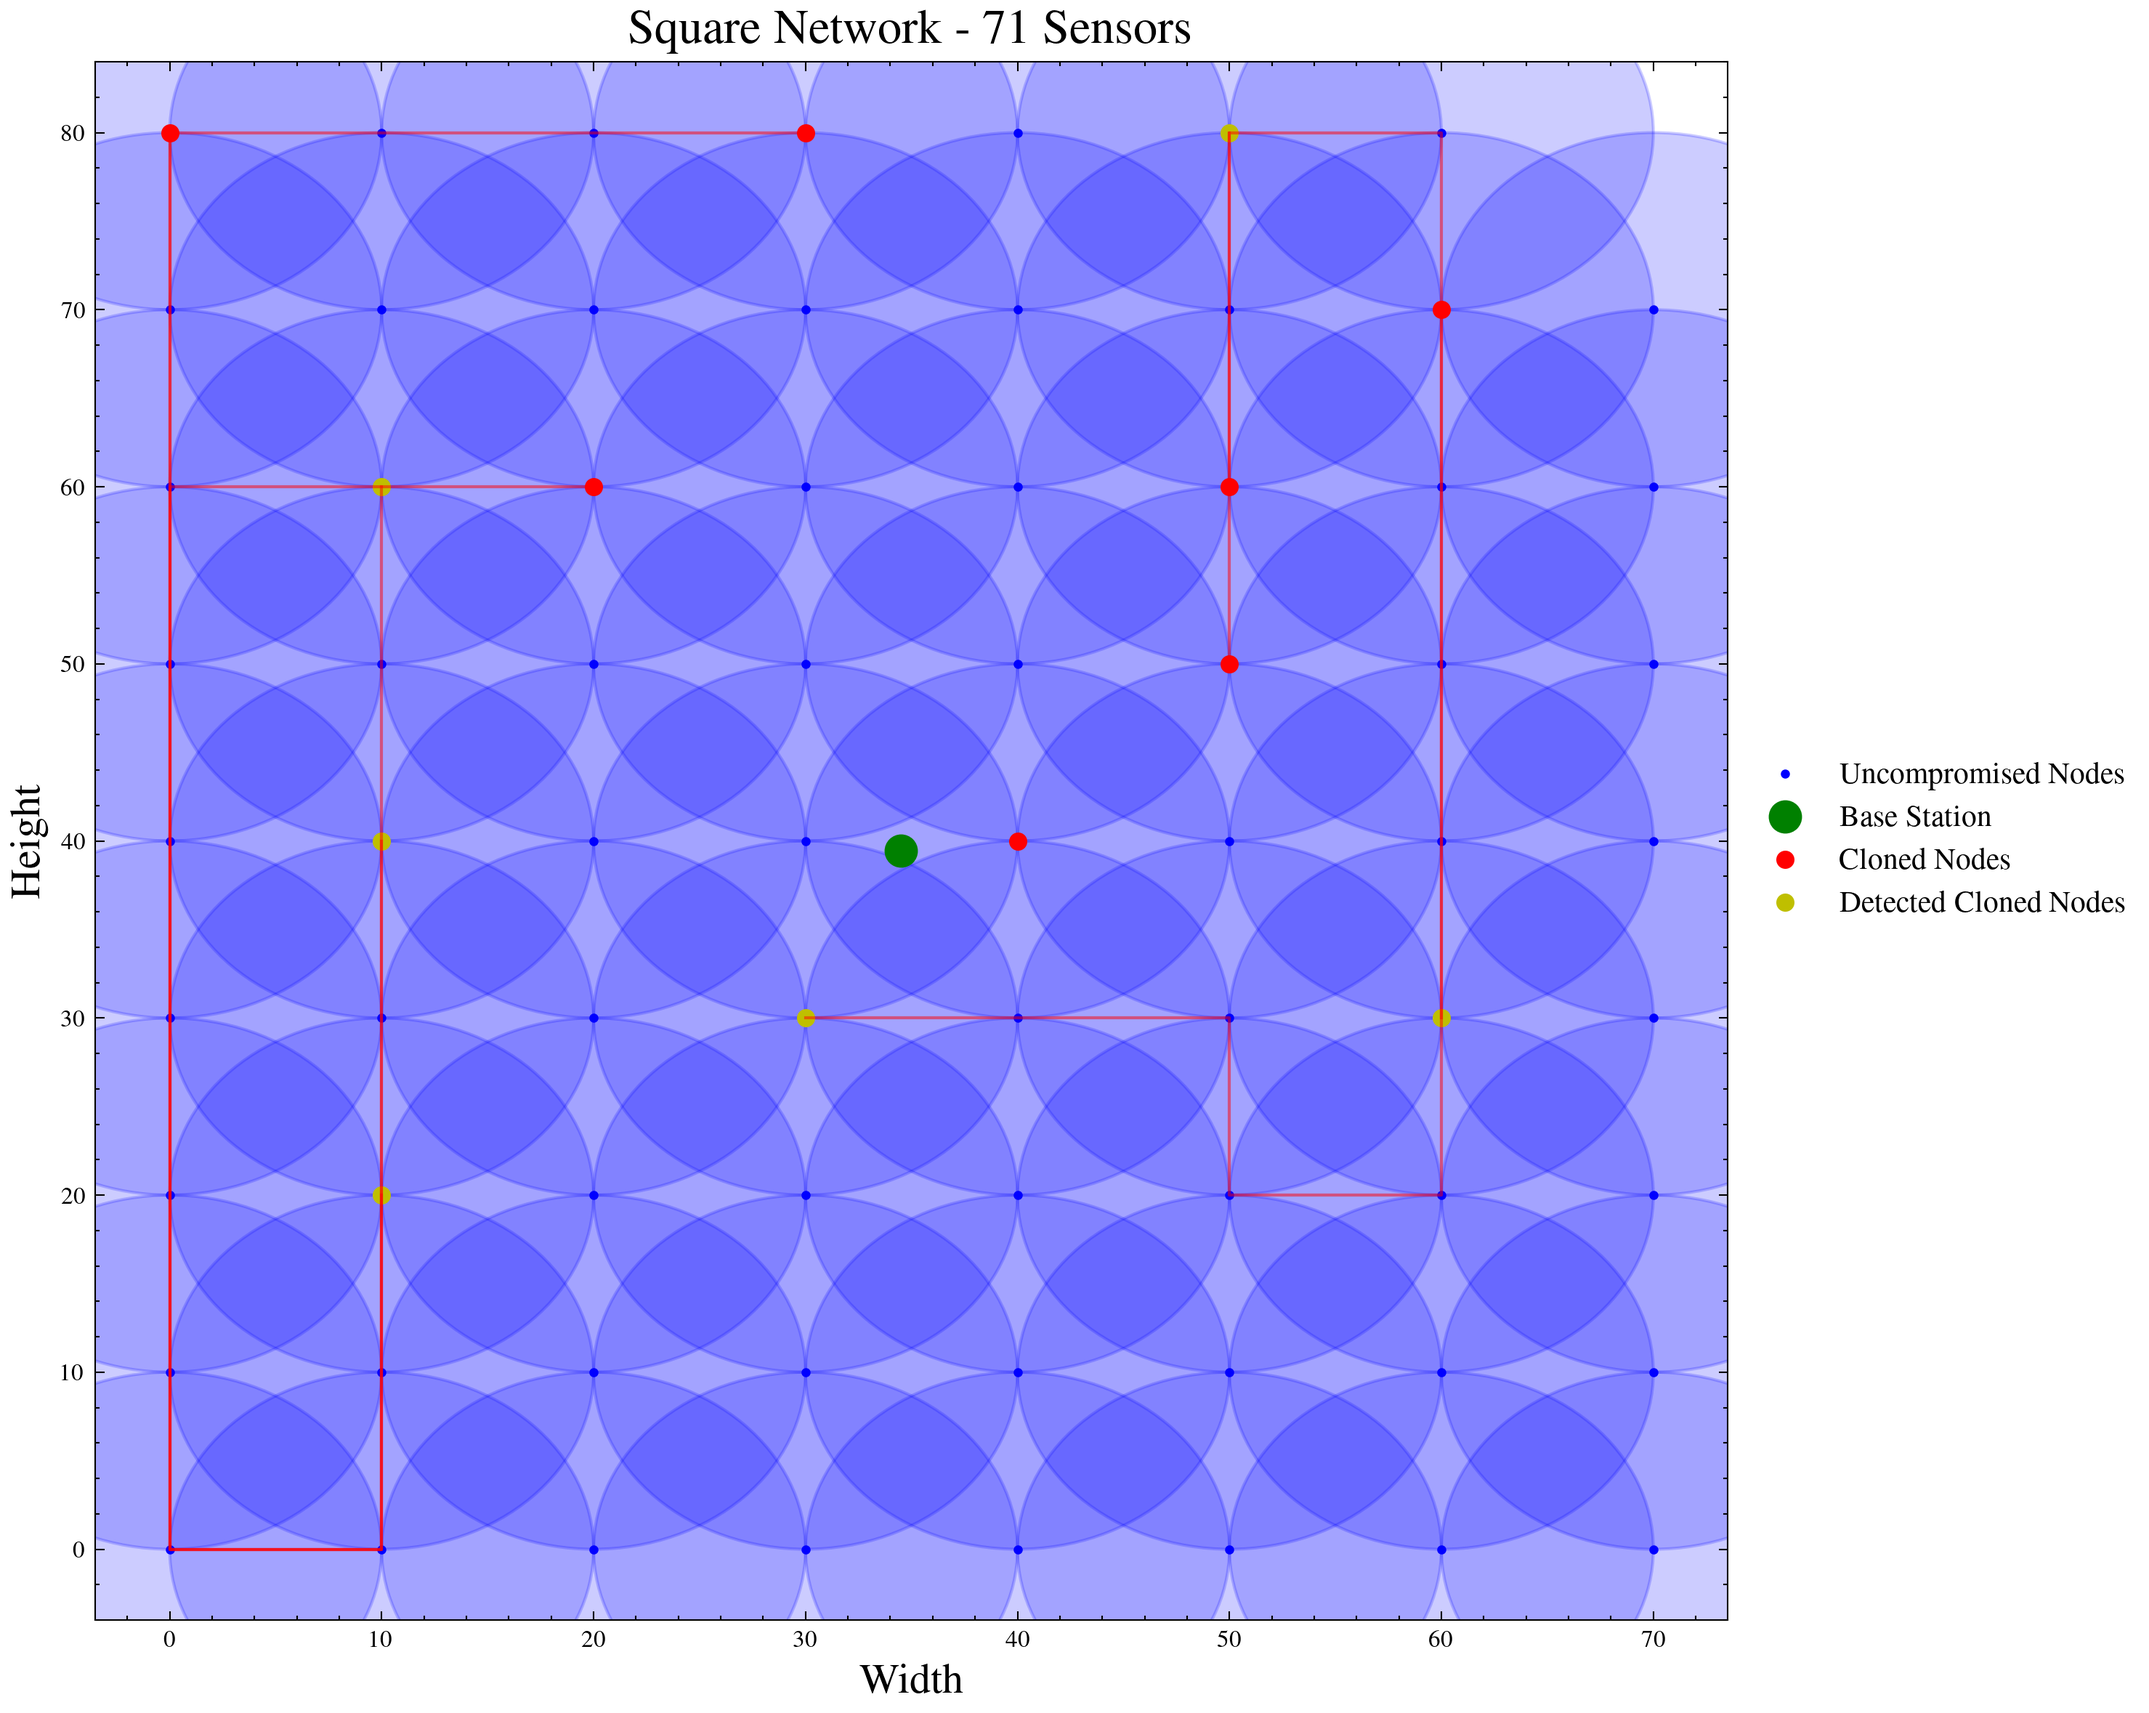
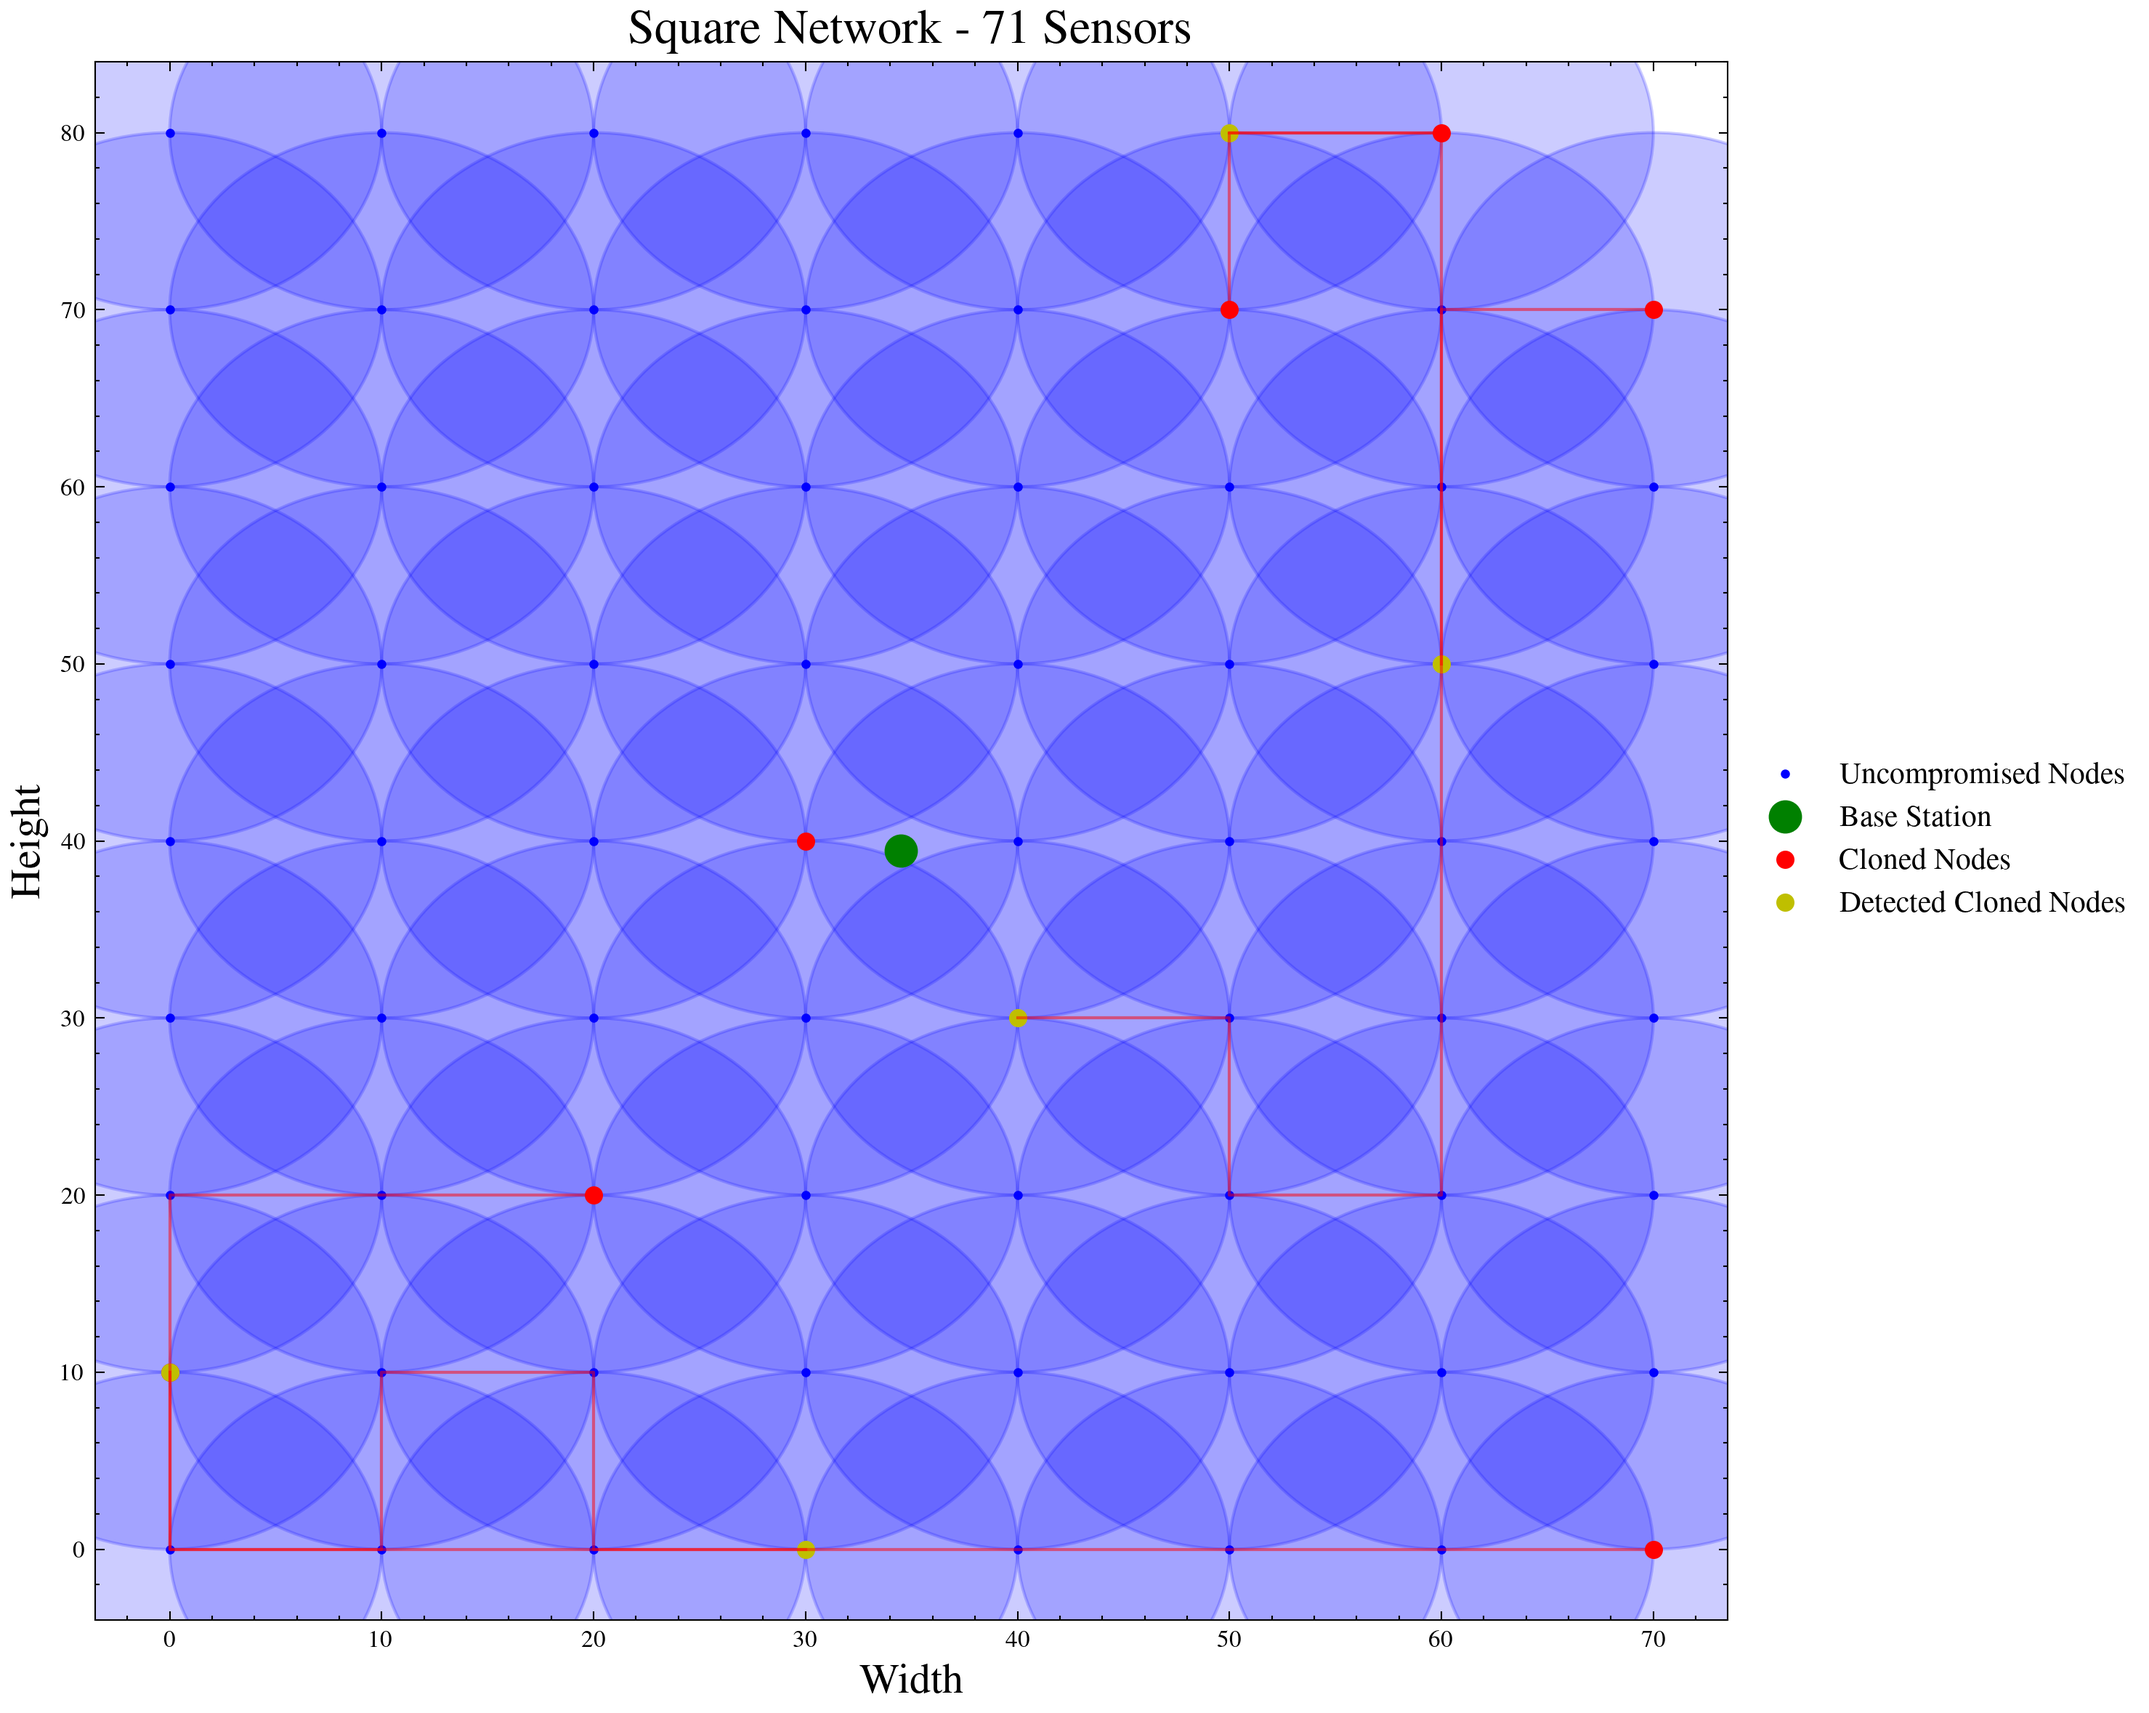
gg

diff --git a/SECURITY/mainfilesecurity.py b/SECURITY/mainfilesecurity.py
@@ -113,7 +113,7 @@ def get_unique_angles_distances(current_node, network):
 def detect_pattern(current_node, network):
     unique_angles, unique_distances = get_unique_angles_distances(current_node, network)
     
-    max_angles = 6
+    max_angles = 12
     max_distances = 2
     
     return len(unique_angles) <= max_angles and len(unique_distances) <= max_distances
